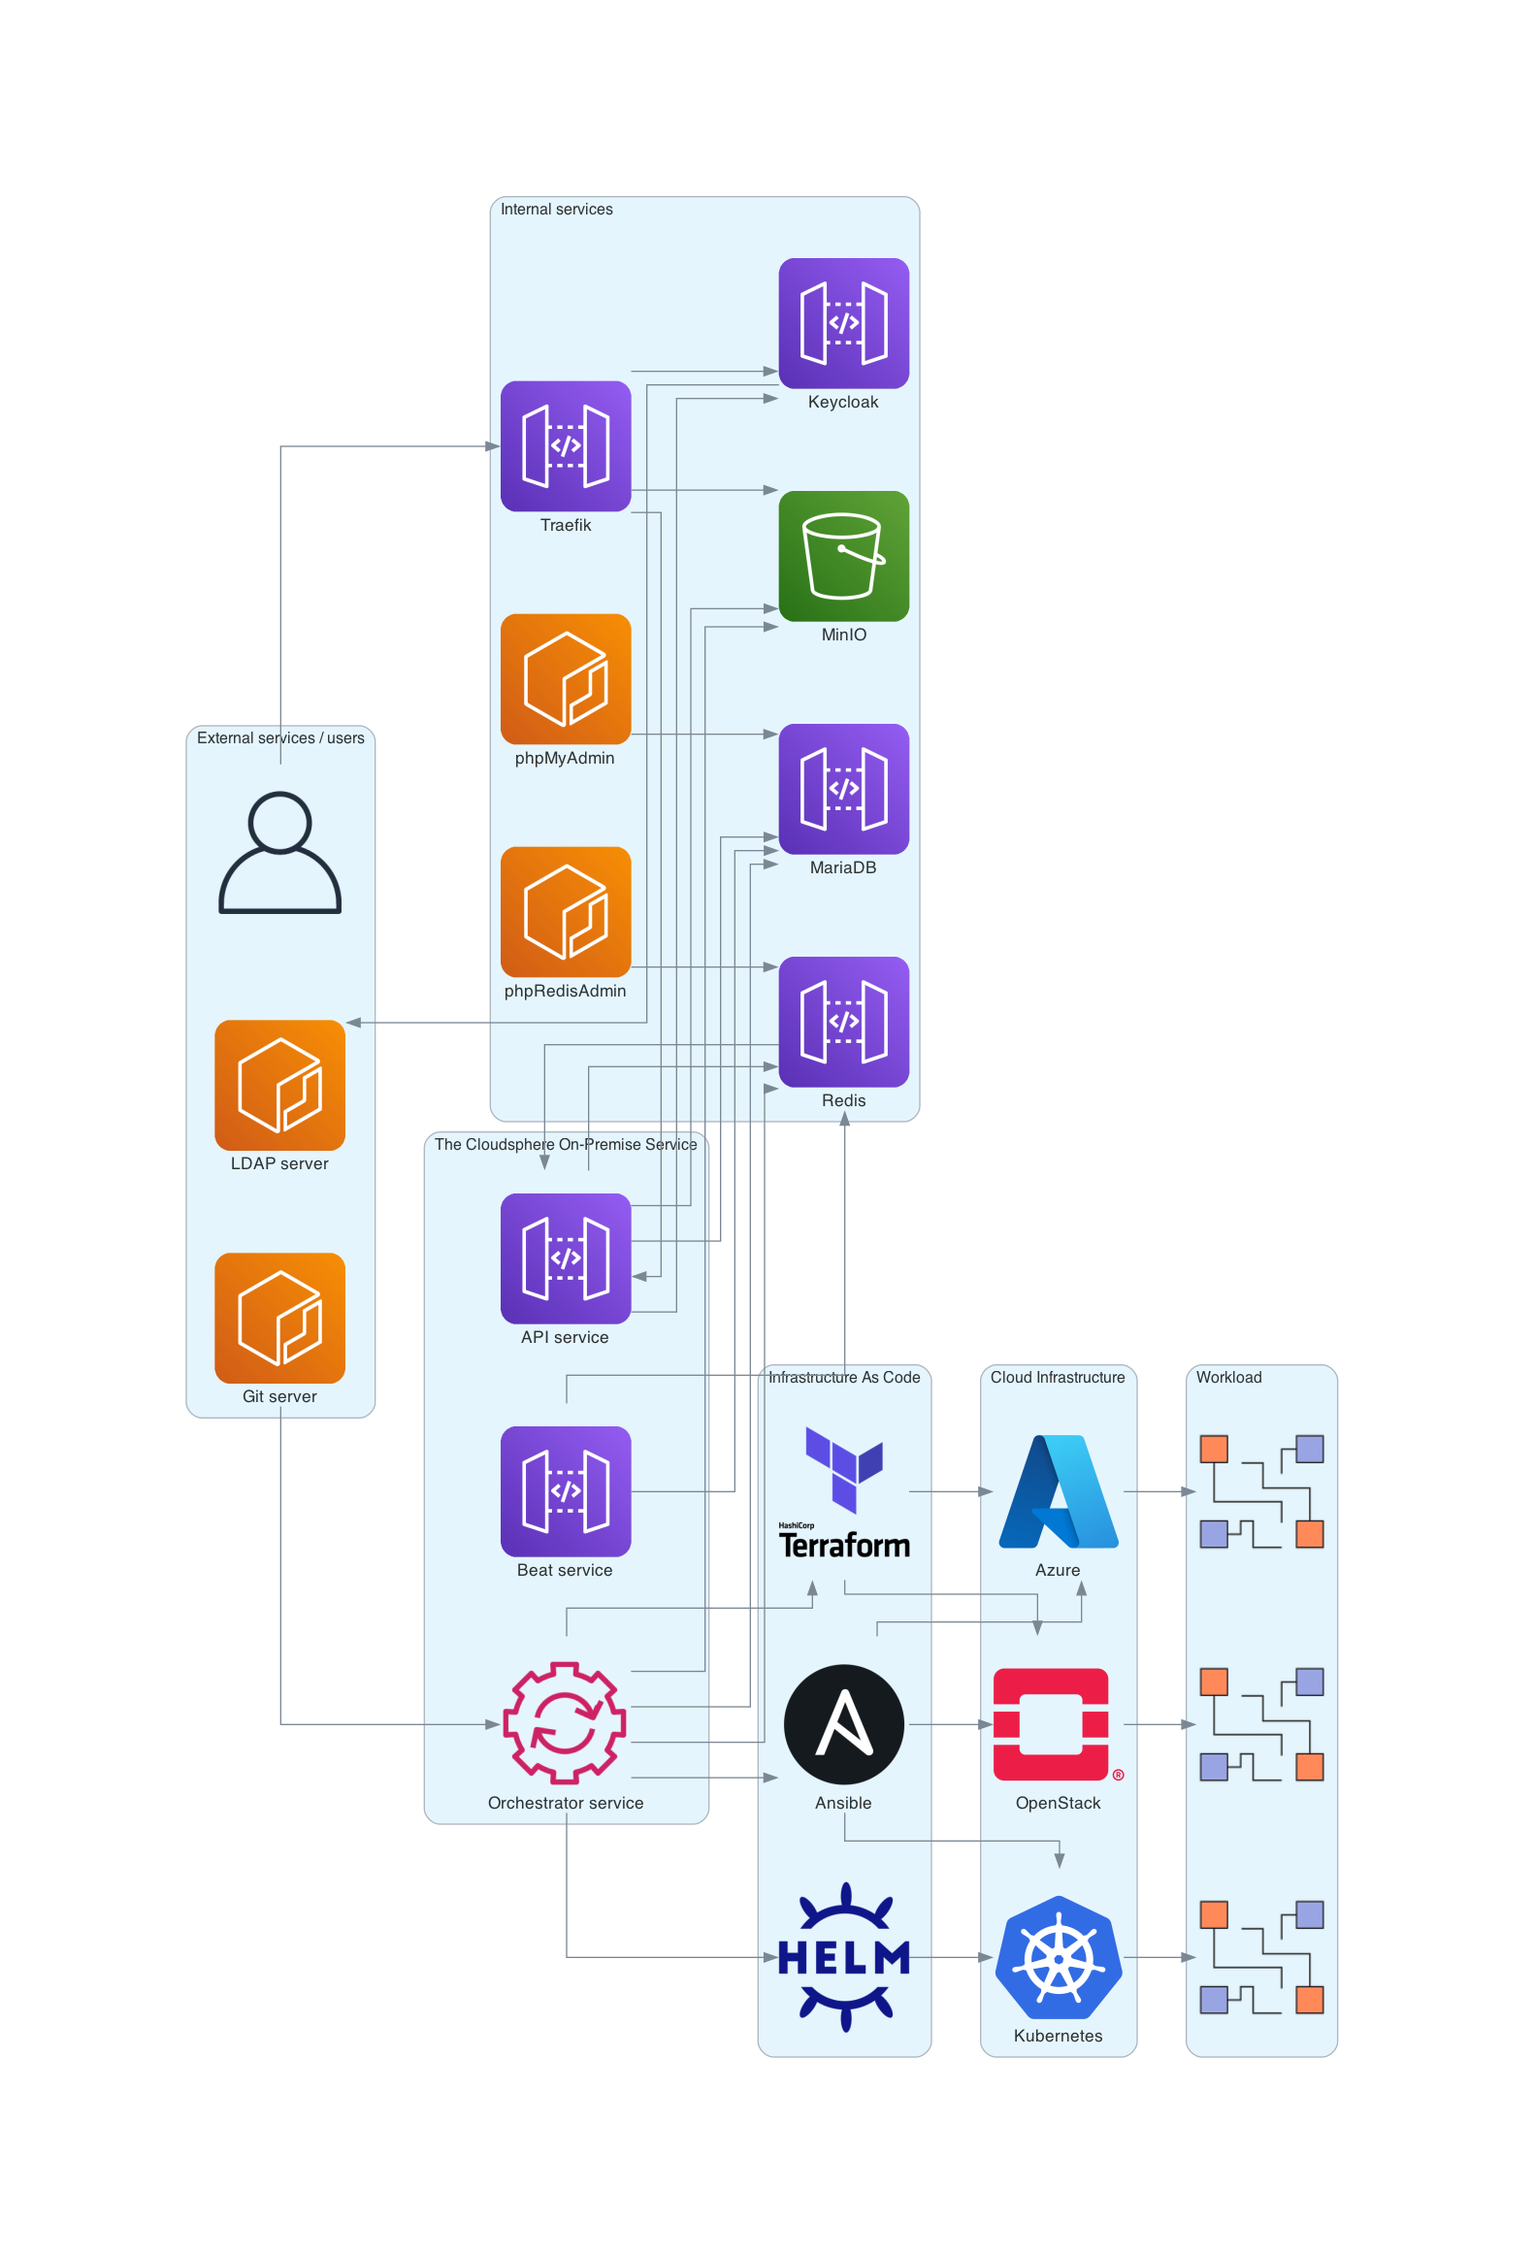
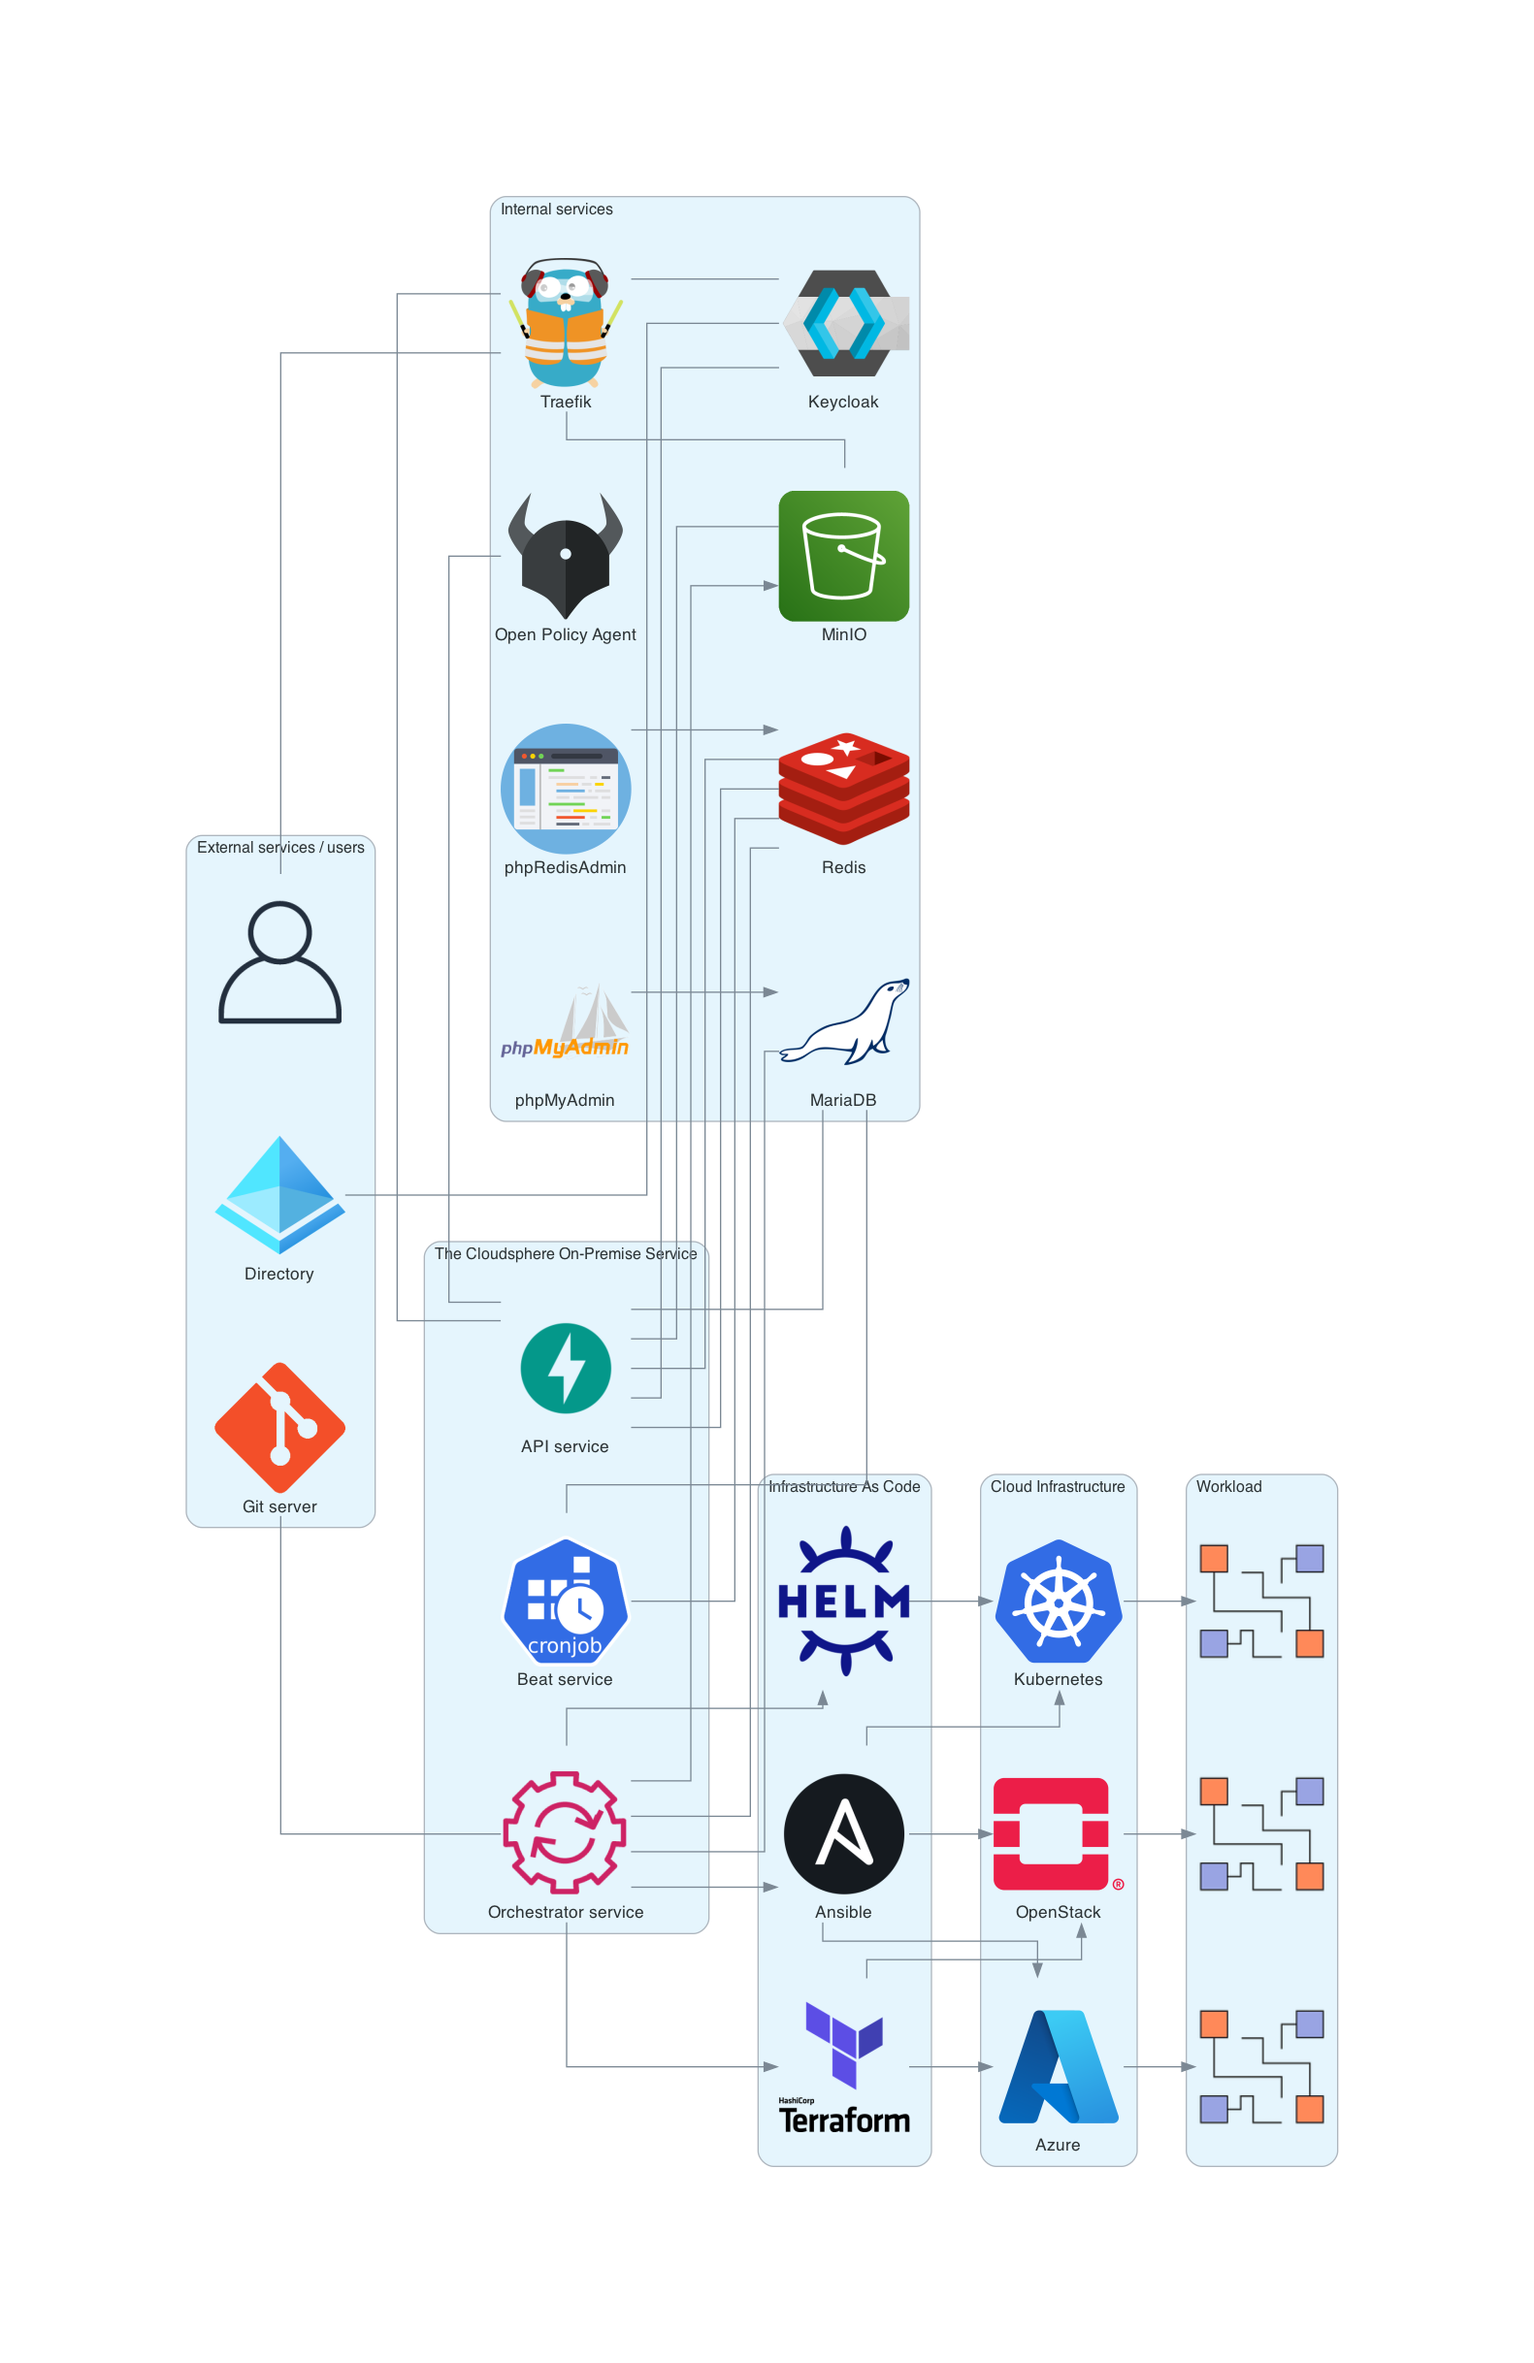
Extend overview

diff --git a/overview.py b/overview.py
@@ -1,39 +1,39 @@
 from diagrams import Cluster, Diagram
 from diagrams.aws.general import User
-from diagrams.aws.compute import ECR
 from diagrams.aws.management import SystemsManagerAutomation
-from diagrams.aws.network import APIGateway
 from diagrams.aws.storage import S3
 from diagrams.custom import Custom
 from diagrams.k8s.ecosystem import Helm
+from diagrams.onprem.database import Mariadb
 from diagrams.onprem.iac import Ansible, Terraform
+from diagrams.onprem.inmemory import Redis
+from diagrams.onprem.network import Traefik
+from diagrams.onprem.vcs import Git
+from diagrams.programming.framework import Fastapi
+from diagrams.k8s.compute import Cronjob
+from diagrams.azure.identity import ActiveDirectory
 
 
 with Diagram(filename="overview"):
     with Cluster("External services / users"):
         user = User()
-        registry = ECR("Git server")
-        ldap = ECR("LDAP server")
-
-    with Cluster("Workload"):
-        infrastructure_1 = Custom("", "logos/diagrams.png")
-        infrastructure_2 = Custom("", "logos/diagrams.png")
-        infrastructure_3 = Custom("", "logos/diagrams.png")
+        registry = Git("Git server")
+        directory = ActiveDirectory("Directory")
 
     with Cluster("The Cloudsphere On-Premise Service"):
-        beat = APIGateway("Beat service")
-        api = APIGateway("API service")
+        beat = Cronjob("Beat service")
+        api = Fastapi("API service")
         orchestrator = SystemsManagerAutomation("Orchestrator service")
 
     with Cluster("Internal services"):
-        traefik = APIGateway("Traefik")
-        keycloak = APIGateway("Keycloak")
+        keycloak = Custom("Keycloak", "logos/keycloak.png")
+        mariadb = Mariadb("MariaDB")
+        opa = Custom("Open Policy Agent", "logos/opa.png")
+        phpmyadmin = Custom("phpMyAdmin", "logos/phpmyadmin.png")
+        phpredisadmin = Custom("phpRedisAdmin", "logos/phpredisadmin.png")
+        redis = Redis("Redis")
         storage = S3("MinIO")
-        mariadb = APIGateway("MariaDB")
-        redis = APIGateway("Redis")
-
-        phpmyadmin = ECR("phpMyAdmin")
-        phpredisadmin = ECR("phpRedisAdmin")
+        traefik = Traefik("Traefik")
 
     with Cluster("Infrastructure As Code"):
         ansible = Ansible("Ansible")
@@ -45,36 +45,43 @@ with Diagram(filename="overview"):
         k8s = Custom("Kubernetes", "logos/k8s.png")
         openstack = Custom("OpenStack", "logos/openstack.png")
 
+    with Cluster("Workload"):
+        infrastructure_1 = Custom("", "logos/diagrams.png")
+        infrastructure_2 = Custom("", "logos/diagrams.png")
+        infrastructure_3 = Custom("", "logos/diagrams.png")
+
     phpredisadmin >> redis
     phpmyadmin >> mariadb
 
-    traefik >> api
-    traefik >> keycloak
-    traefik >> storage
+    traefik - api
+    traefik - keycloak
+    traefik - storage
 
-    ldap << keycloak
-    keycloak << api
+    opa - api
 
-    redis >> api
+    directory - keycloak
+    keycloak - api
 
-    api >> redis
-    api >> mariadb
-    api >> storage
+    redis - api
 
-    beat >> redis
-    beat >> mariadb
+    api - redis
+    api - mariadb
+    api - storage
 
-    orchestrator >> redis
-    orchestrator >> mariadb
+    beat - redis
+    beat - mariadb
 
-    user >> traefik
+    orchestrator - redis
+    orchestrator - mariadb
+
+    user - traefik
 
     orchestrator >> ansible
     orchestrator >> helm
     orchestrator >> terraform
     orchestrator >> storage
 
-    registry >> orchestrator
+    registry - orchestrator
 
     ansible >> azure
     ansible >> k8s
